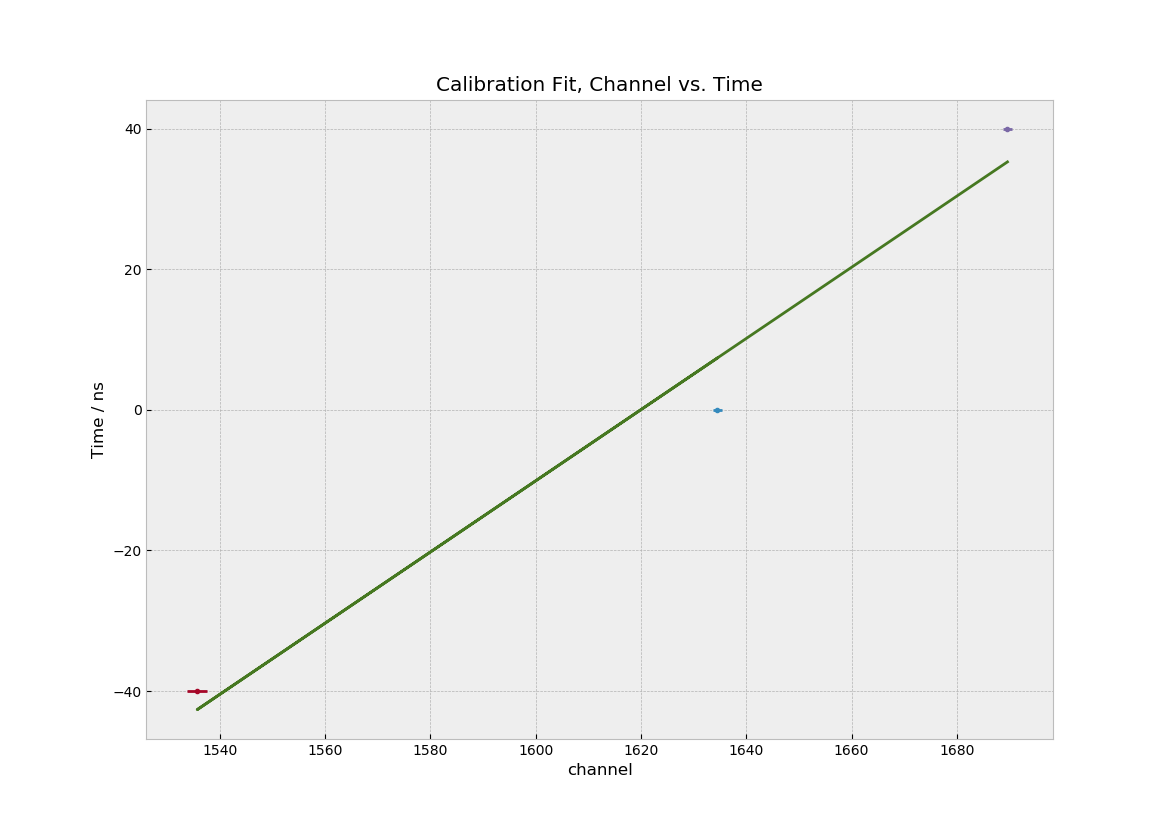
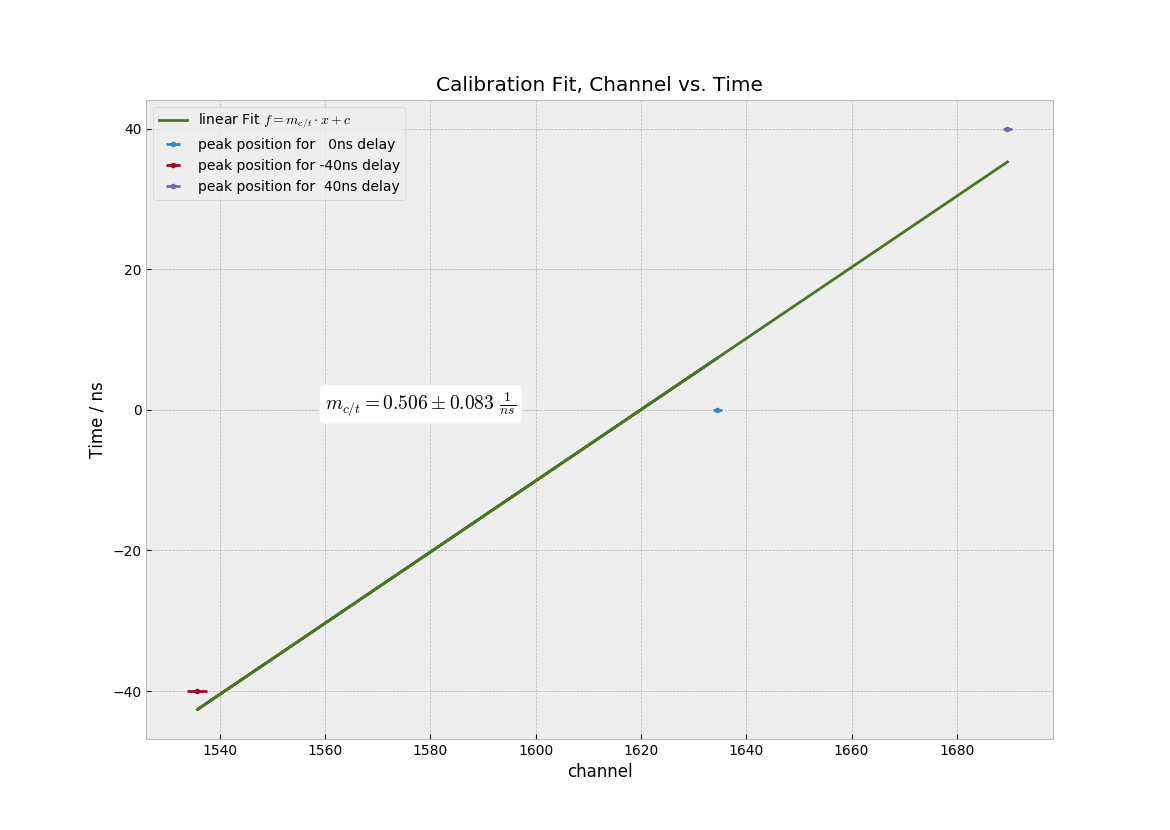
complete time calibration and t.d.coinc. plots

diff --git a/F83 - Koinzidenzspektrometer/time.py b/F83 - Koinzidenzspektrometer/time.py
@@ -6,6 +6,7 @@ import VisTools.printing as vto
 import pandas as pd
 import numpy as np
 import uncertainties.unumpy as unp
+import uncertainties as unc
 import scipy.optimize as opt
 
 plt.figure(figsize=(11.7, 8.3)) # DIN A4
@@ -75,7 +76,8 @@ for f in initial_data.keys():
         initial_data[f]['fit_mean'],
         initial_data[f]['theo_delay'],
         xerr=initial_data[f]['fit_dmean'],
-        fmt='.'
+        fmt='.',
+        label="peak position for {:3.0f}ns delay".format(initial_data[f]['theo_delay'])
     )
 
 p0 = [
@@ -90,9 +92,22 @@ fparams = opt.curve_fit(
 )
 plt.plot(
     [initial_data[f]['fit_mean'] for f in initial_data.keys()],
-    np.array([initial_data[f]['fit_mean'] for f in initial_data.keys()])*fparams[0][0]+fparams[0][1]
+    np.array([initial_data[f]['fit_mean'] for f in initial_data.keys()])*fparams[0][0]+fparams[0][1],
+    label="linear Fit $f = m_{c/t}\\cdot x + c$"
 )
 
+fit_m = unc.ufloat(fparams[0][0], np.sqrt(fparams[1][0][0]))
+
+vtp.annotate_unc(
+    plt,
+    fit_m,
+    name="m_{c/t}",
+    unit="\\frac{1}{ns}",
+    data_pos=(1560, 0),
+    formatting = "f"
+)
+
+plt.legend()
 plt.title('Calibration Fit, Channel vs. Time')
 plt.xlabel('channel')
 plt.ylabel('Time / ns')
@@ -128,14 +143,37 @@ fparams = opt.curve_fit(
 plt.cla()
 plt.plot(
     data.index.values[:-1],
-    data['int'][:-1]
+    data['int'][:-1],
+    label="measurement"
 )
 
 plt.plot(
     x_data,
-    distr(np.array(x_data), *fparams[0])
+    distr(np.array(x_data), *fparams[0]),
+    label="Gauss-Fit"
 )
+
+plt.hlines(
+    fparams[0][2]/2,
+    fparams[0][0]-fparams[0][1],
+    fparams[0][0]+fparams[0][1],
+    linestyles='dotted'
+)
+
+vtp.annotate_unc(
+    plt,
+    unc.ufloat(fparams[0][1], np.sqrt(fparams[1][1][1]))*2*fit_m,
+    name="FWHM",
+    unit="ns",
+    formatting="f",
+    data_pos = (150,20)
+)
+
 
 plt.xlim([0, 500])
 
+plt.legend()
+plt.title("Time dependent coincidence measurement of $^{60}$Co")
+plt.xlabel("channel")
+plt.ylabel("Intensity")
 plt.savefig('time_co60.png')
